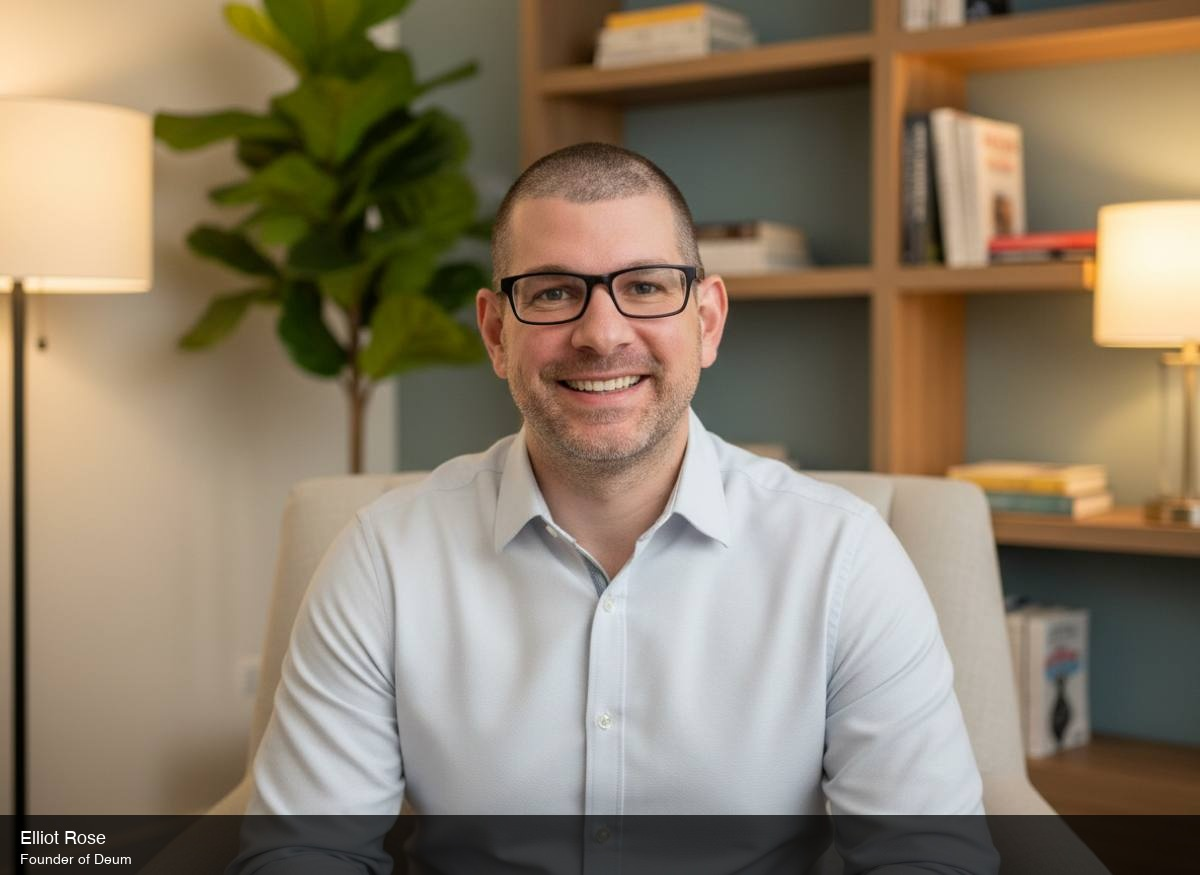
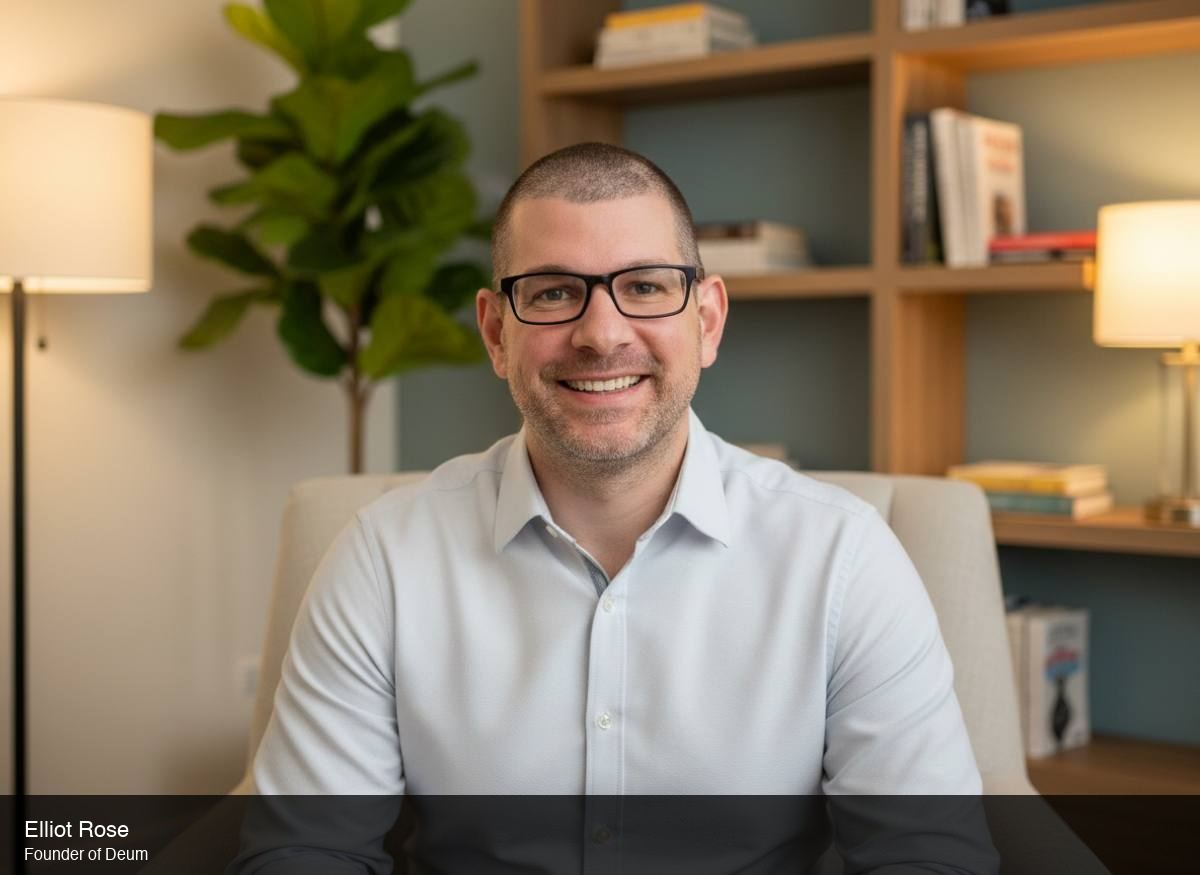
improve: larger image + bigger name bar
1. ✅ Image width: 320px → 384px (md:w-96)
2. ✅ Name bar height: 60px → 80px (more breathing room)
3. ✅ Larger fonts: 18/14 → 22/16
4. ✅ Better alignment with paragraph text

Image now aligns with bottom of text! 📐

Changed region(s): [[0.0, 0.8949, 1.0, 0.9874]]

diff --git a/app/about/page.tsx b/app/about/page.tsx
@@ -33,14 +33,14 @@ export default function AboutPage() {
             {/* Newspaper-style layout with image float */}
             <div className="space-y-4 text-lg text-[#A0A0A0] leading-relaxed">
               {/* Founder photo - floats left on desktop, full width on mobile */}
-              <div className="w-full md:w-80 md:float-left md:mr-8 mb-6 rounded-2xl overflow-hidden">
+              <div className="w-full md:w-96 md:float-left md:mr-8 mb-6 rounded-2xl overflow-hidden">
                 <Image 
                   src="/images/elliot-founder-labeled.jpg" 
                   alt="Founder of Deum" 
-                  width={320}
-                  height={320}
+                  width={384}
+                  height={384}
                   className="object-cover w-full"
-                  sizes="(max-width: 768px) 100vw, 320px"
+                  sizes="(max-width: 768px) 100vw, 384px"
                 />
               </div>
 
